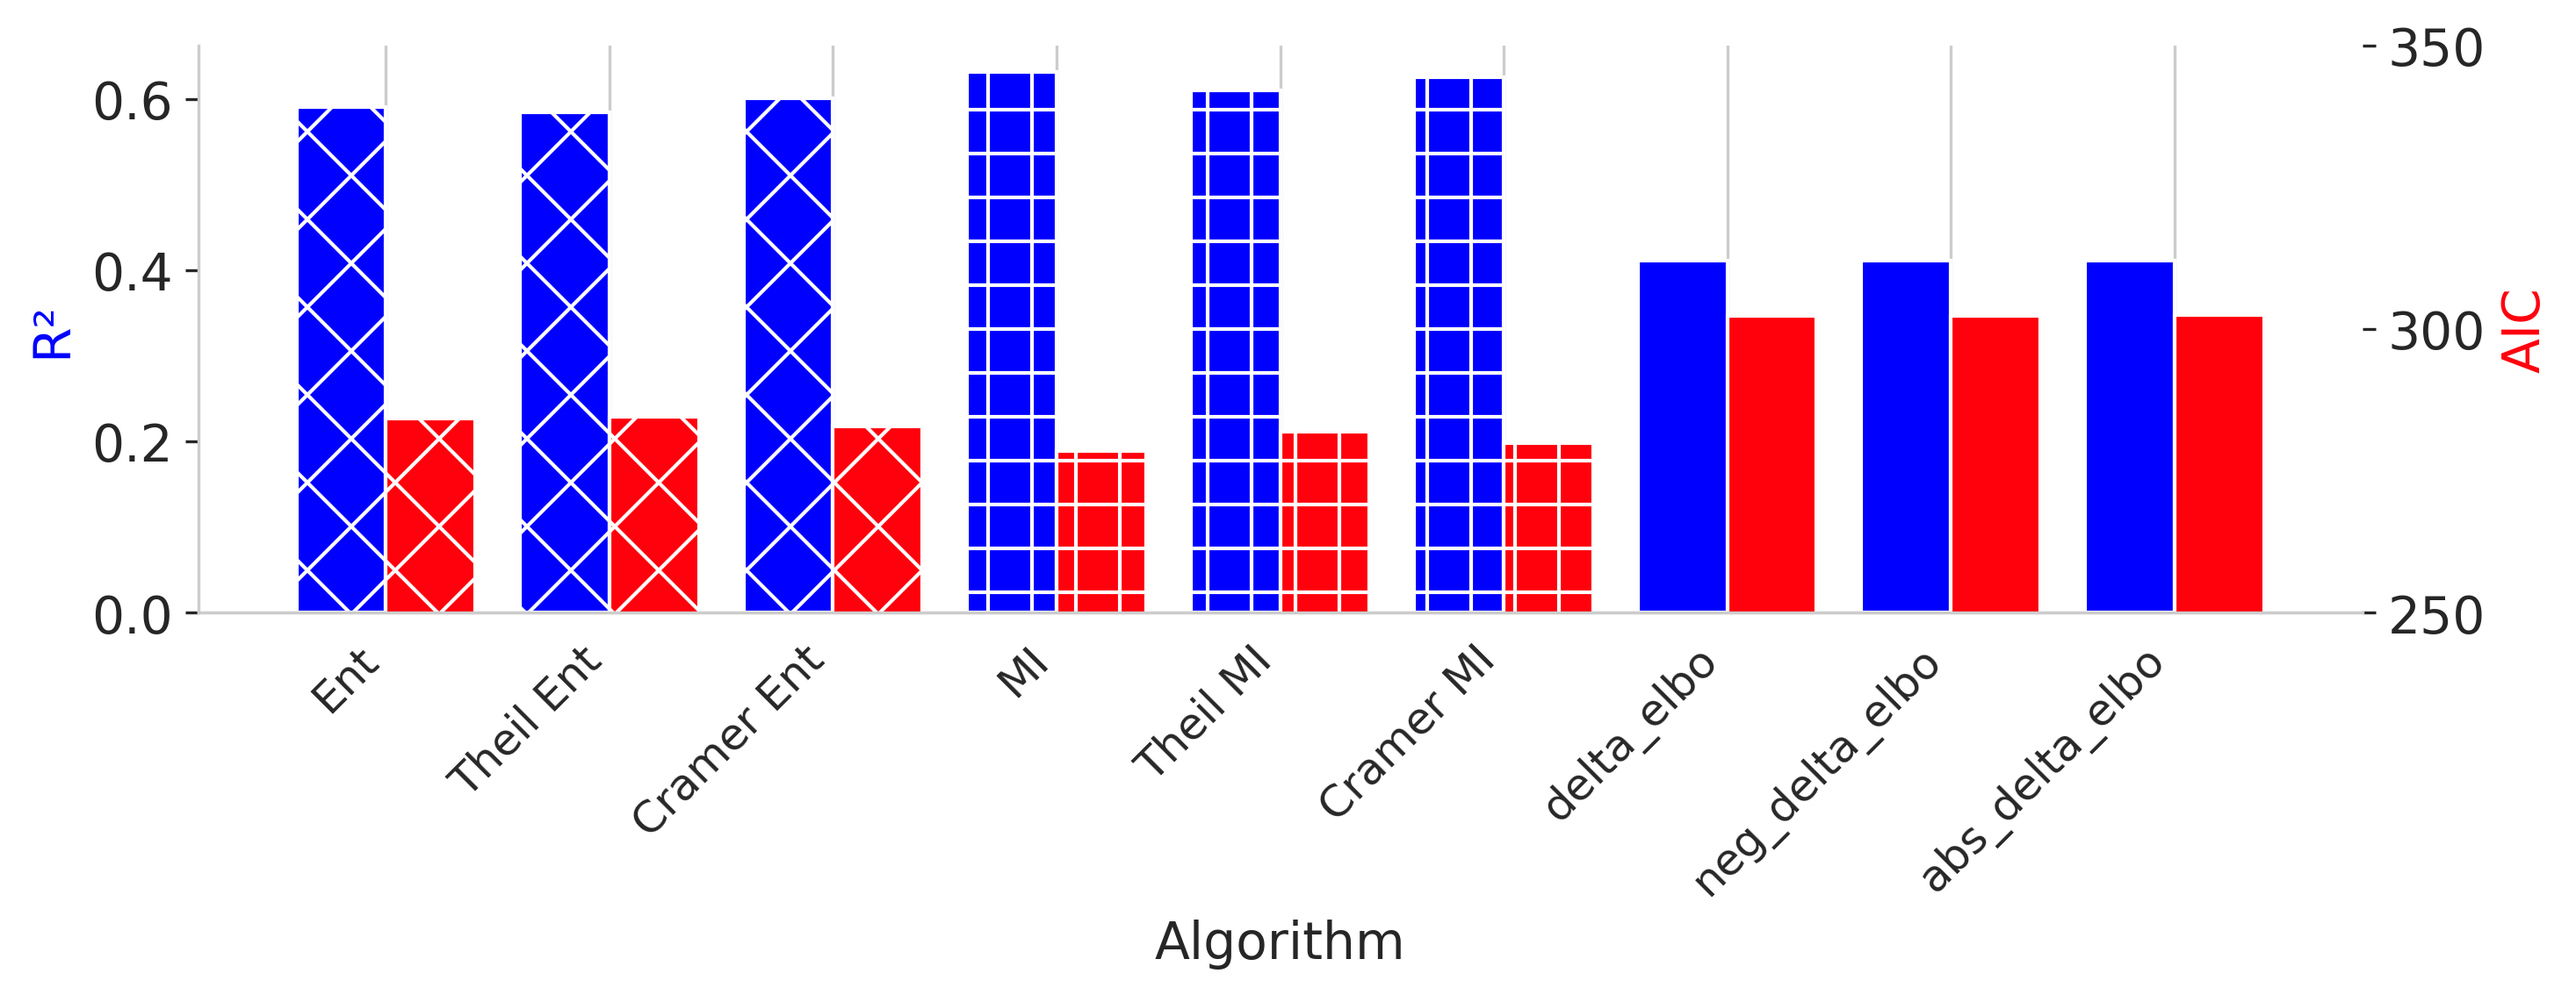
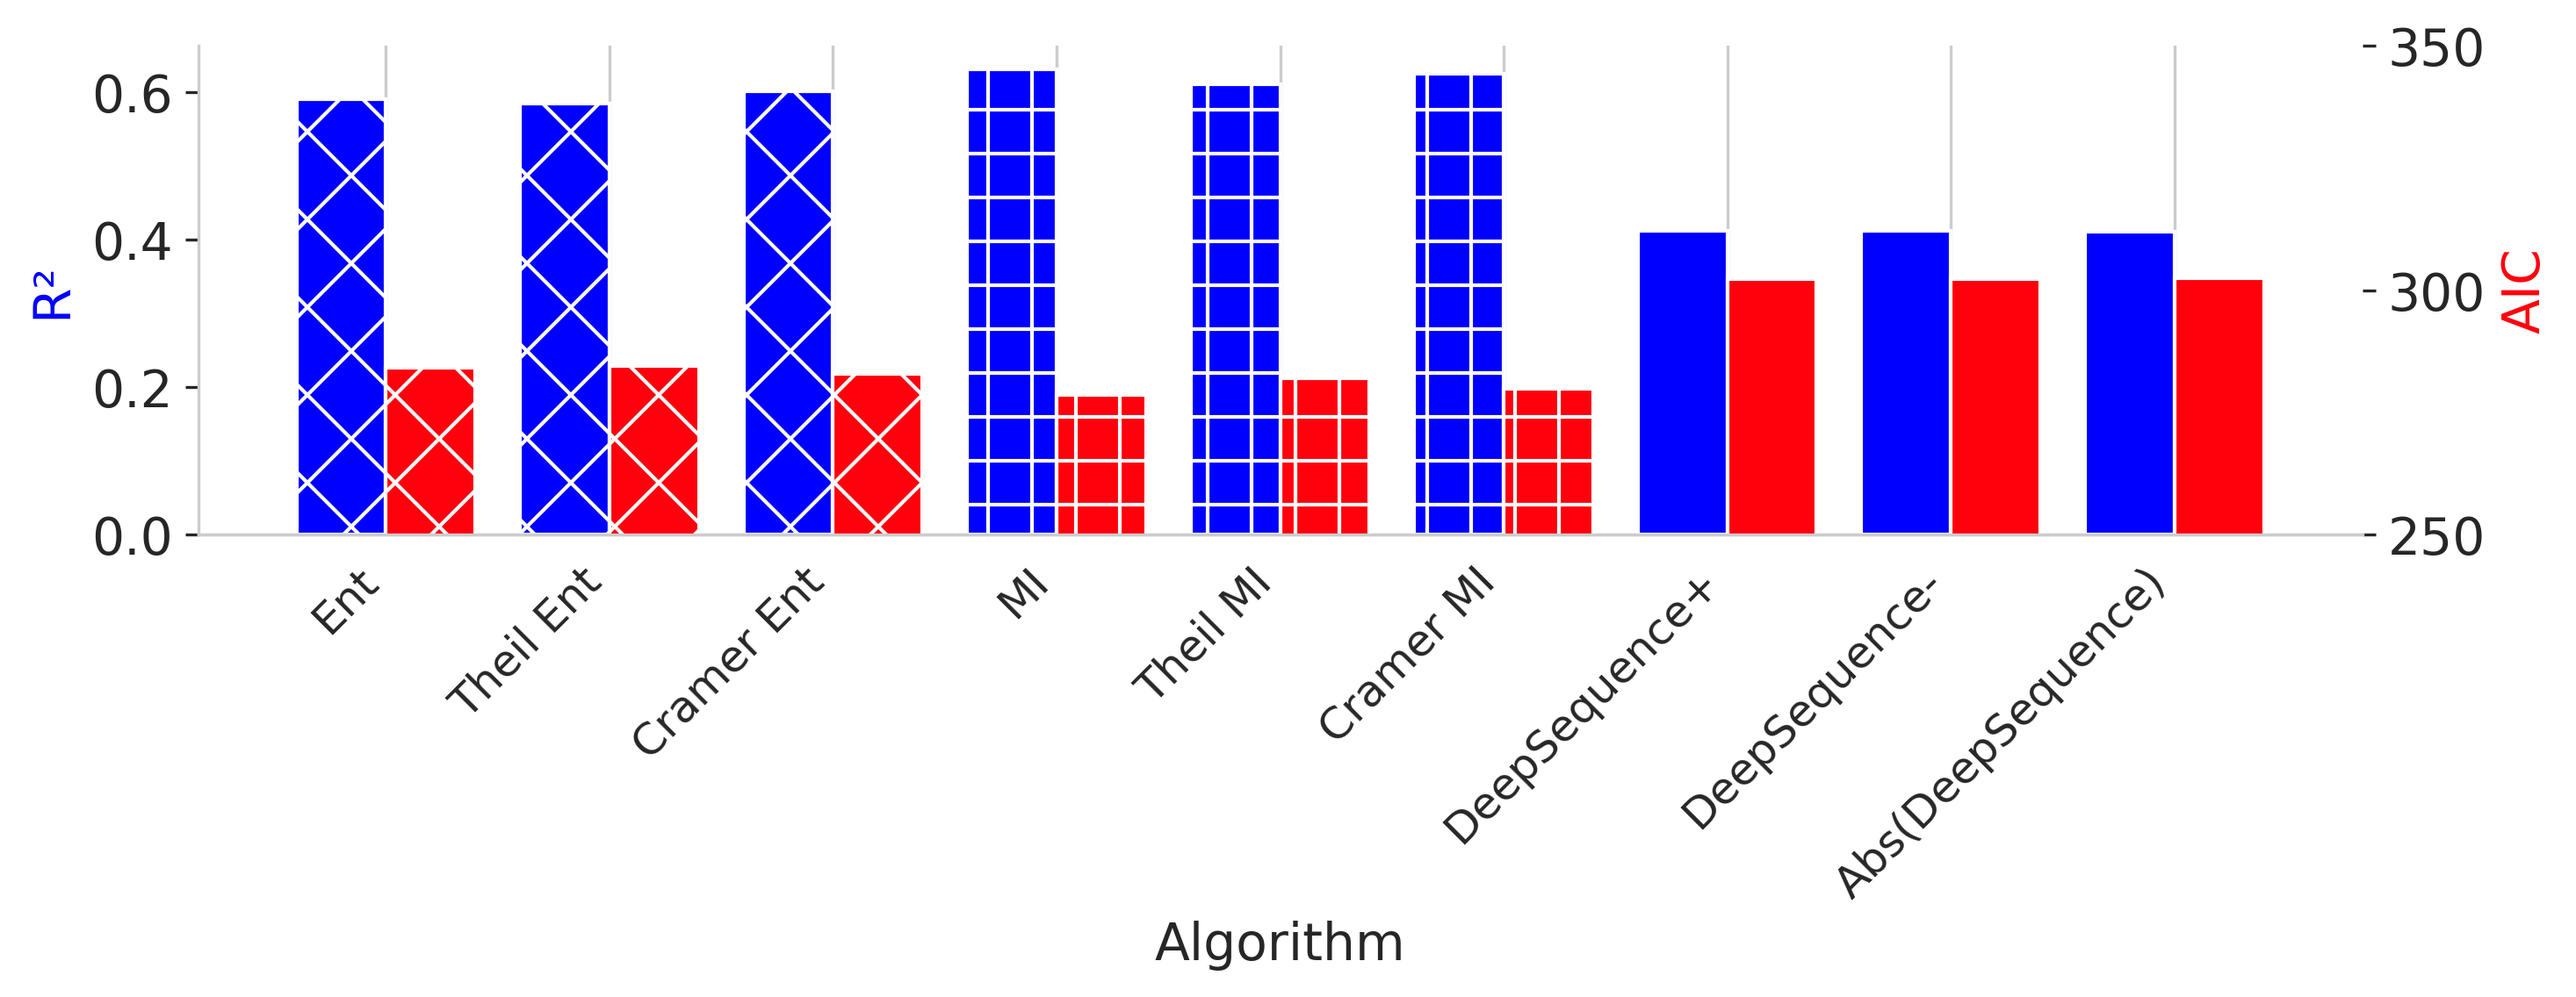
Updated plots and analysis results

diff --git a/analyze_pdbs.py b/analyze_pdbs.py
@@ -1061,7 +1061,7 @@ if __name__ == "__main__":
     ## existing method 
     identified_residues_folder = './Data/Antibodies/key_tuning_residues_no_rep.csv'
     exist_data = create_annotated_lists(identified_residues_folder, len(focus))
-    exist_legends = ['delta_elbo', 'neg_delta_elbo', 'abs_delta_elbo']
+    exist_legends = ['DeepSequence+', 'DeepSequence-', 'Abs(DeepSequence)']
 
 
     values_list = data+exist_data # Replace with actual list of lists of values

diff --git a/assess_measures.py b/assess_measures.py
@@ -429,7 +429,7 @@ if __name__ == "__main__":
     ## existing method 
     identified_residues_folder = './Data/Antibodies/key_tuning_residues_no_rep.csv'
     exist_data = create_annotated_lists(identified_residues_folder, len(focus))
-    exist_legends = ['delta_elbo', 'neg_delta_elbo', 'abs_delta_elbo']
+    exist_legends = ['DeepSequence+', 'DeepSequence-', 'Abs(DeepSeqeunce)']
 
 
     values_list = data+exist_data # Replace with actual list of lists of values
